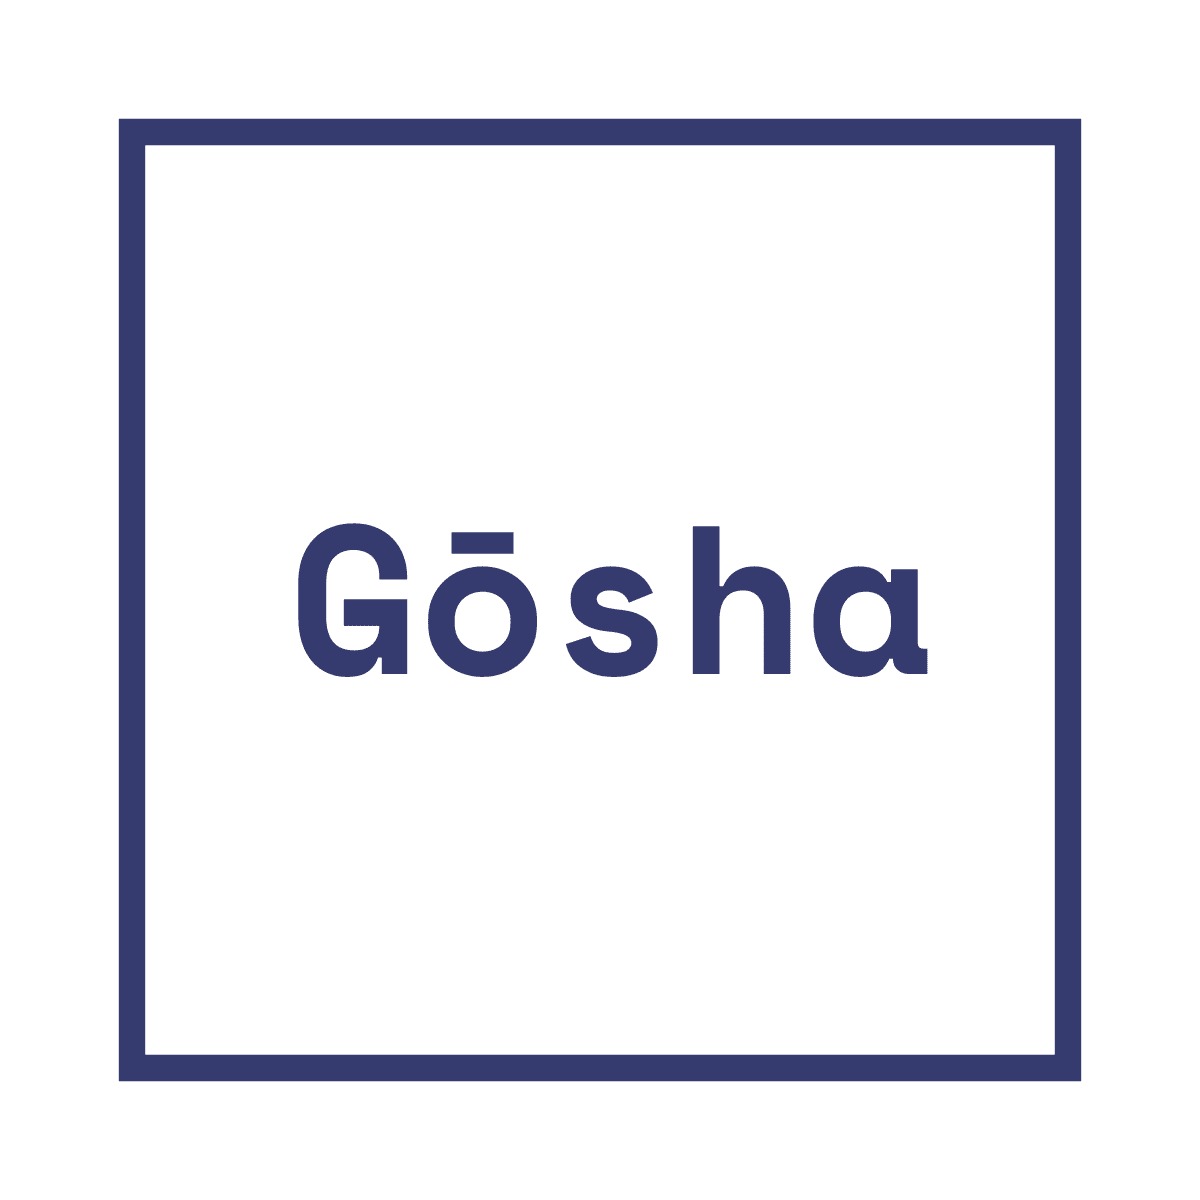
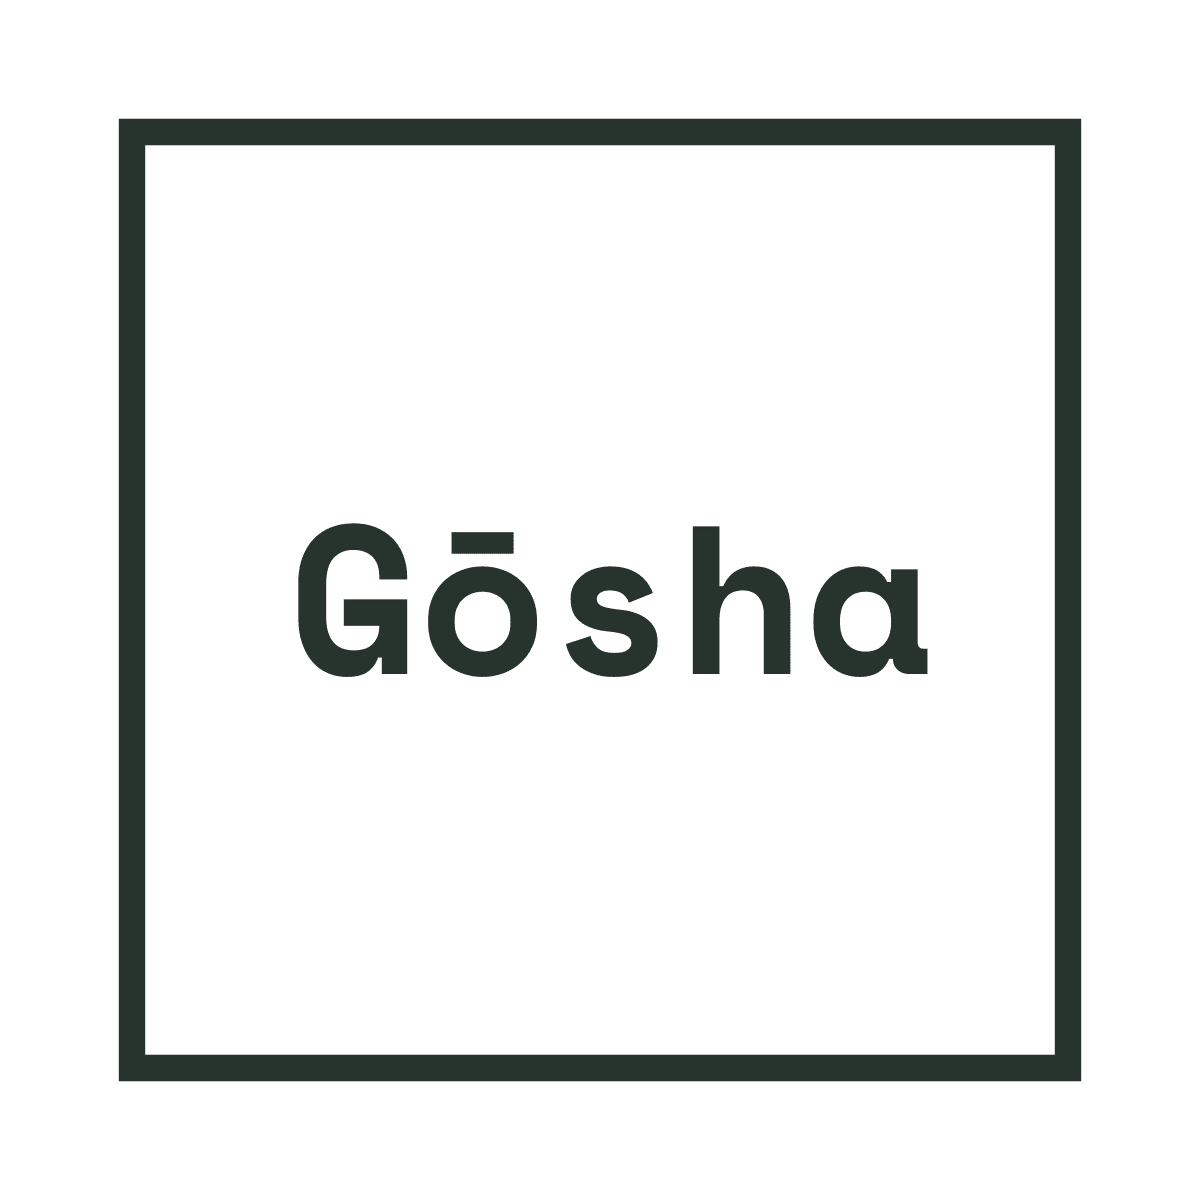
updating sign in and register components

Changed region(s): [[0.0925, 0.0925, 0.925, 0.925], [0.2467, 0.4317, 0.7708, 0.5858]]

diff --git a/src/components/SignInDrawer/Register.jsx b/src/components/SignInDrawer/Register.jsx
@@ -1,38 +1,100 @@
 import React, { Component } from "react";
+import Input from "./../Input/Input";
+import Joi from "@hapi/joi";
 import "../assets/css/fonts.css";
 import "./Register.css";
 
 class Register extends Component {
-  handleSubmit = (e) => {
-    e.preventDefault();
+  state = {
+    account: { name: "", email: "", password: "", confirmedPassword: "" },
+    errors: {},
   };
 
-  handleInput = () => {};
+  schema = Joi.object({
+    name: Joi.string().required().alphanum(),
+    email: Joi.string()
+      .required()
+      .email({ minDomainSegments: 2, tlds: { allow: false } })
+      .label("E-mail"),
+    password: Joi.string()
+      .required()
+      .pattern(new RegExp("^[a-zA-Z0-9]{6,16}$"))
+      .label("Password"),
+    confirmedPassword: Joi.string().required(),
+  });
+
+  validate = () => {
+    const options = { abortEarly: false };
+    const { error } = this.schema.validate(this.state.account, options);
+
+    if (!error) return null;
+
+    const errors = {};
+    for (let item of error.details) {
+      errors[item.path[0]] = "This field is required";
+    }
+    return errors;
+  };
+
+  handleSubmit = (e) => {
+    e.preventDefault();
+
+    const errors = this.validate();
+    this.setState({ errors: errors || {} });
+    if (errors) return;
+  };
+
+  // validateProperty = ({ name, value }) => {
+  //   const obj = { [name]: value };
+  //   const schema = Joi.object({ [name]: this.schema[name] });
+  //   const { error } = schema.validate(obj);
+  //   return error ? "This field is required" : null;
+  // };
+
+  handleInput = ({ currentTarget: input }) => {
+    // const errors = { ...this.state.errors };
+    // const errorMessage = this.validateProperty(input);
+    // if (errorMessage) errors[input.name] = errorMessage;
+    // else delete errors[input.name];
+
+    const account = { ...this.state.account };
+    account[input.name] = input.value;
+    this.setState({ account });
+  };
 
   render() {
+    const { account, errors } = this.state;
     return (
       <React.Fragment>
         <h1>Register</h1>
         <form onSubmit={this.handleSubmit} className="register-form">
-          <input
-            className="register-form-input"
-            type="text"
+          <Input
+            name="name"
+            value={account.name}
             placeholder="Name *"
+            onInput={this.handleInput}
+            error={errors.name}
           />
-          <input
-            className="register-form-input"
-            type="text"
+          <Input
+            name="email"
+            value={account.email}
             placeholder="Email *"
+            onInput={this.handleInput}
+            error={errors.email}
           />
-          <input
-            className="register-form-input"
-            type="text"
+          <Input
+            name="password"
+            value={account.password}
             placeholder="Password *"
+            onInput={this.handleInput}
+            error={errors.password}
           />
-          <input
-            className="register-form-input"
-            type="text"
-            placeholder="Confirm password *"
+          <Input
+            name="confirmedPassword"
+            value={account.confirmedPassword}
+            placeholder="Confirm Password *"
+            onInput={this.handleInput}
+            error={errors.confirmedPassword}
           />
           <button className="register-form-button">Enter</button>
         </form>

diff --git a/src/components/SignInDrawer/SignIn.jsx b/src/components/SignInDrawer/SignIn.jsx
@@ -1,41 +1,84 @@
 import React, { Component } from "react";
+import Input from "./../Input/Input";
+import Joi from "@hapi/joi";
 import "../assets/css/fonts.css";
 import "./SignIn.css";
 
 class SignIn extends Component {
-  state = { account: { email: "", password: "" } };
+  state = {
+    account: { email: "", password: "" },
+    errors: {},
+  };
+
+  schema = Joi.object({
+    email: Joi.string()
+      .required()
+      .email({ minDomainSegments: 2, tlds: { allow: false } })
+      .label("E-mail"),
+    password: Joi.string()
+      .required()
+      .pattern(new RegExp("^[a-zA-Z0-9]{6,16}$"))
+      .label("Password"),
+  });
+
+  validate = () => {
+    const options = { abortEarly: false };
+    const { error } = this.schema.validate(this.state.account, options);
+
+    if (!error) return null;
+
+    const errors = {};
+    for (let item of error.details) {
+      errors[item.path[0]] = "This field is required";
+    }
+    return errors;
+  };
 
   handleSubmit = (e) => {
     e.preventDefault();
+
+    const errors = this.validate();
+    this.setState({ errors: errors || {} });
+    if (errors) return;
   };
 
+  // validateProperty = ({ name, value }) => {
+  //   const obj = { [name]: value };
+  //   const schema = Joi.object({ [name]: this.schema[name] });
+  //   const { error } = schema.validate(obj);
+  //   return error ? "This field is required" : null;
+  // };
+
   handleInput = ({ currentTarget: input }) => {
+    // const errors = { ...this.state.errors };
+    // const errorMessage = this.validateProperty(input);
+    // if (errorMessage) errors[input.name] = errorMessage;
+    // else delete errors[input.name];
+
     const account = { ...this.state.account };
     account[input.name] = input.value;
     this.setState({ account });
   };
 
   render() {
-    const { email, password } = this.state.account;
+    const { account, errors } = this.state;
     return (
       <React.Fragment>
         <h1>Sign In</h1>
         <form onSubmit={this.handleSubmit} className="sign-in-form">
-          <input
-            value={email}
+          <Input
+            value={account.email}
             name="email"
-            className="sign-in-form-input"
-            type="text"
             placeholder="E-mail *"
-            onChange={this.handleInput}
+            onInput={this.handleInput}
+            error={errors.email}
           />
-          <input
-            value={password}
+          <Input
+            value={account.password}
             name="password"
-            className="sign-in-form-input"
-            type="text"
             placeholder="Password *"
-            onChange={this.handleInput}
+            onInput={this.handleInput}
+            error={errors.password}
           />
           <button className="sign-in-form-button">Enter</button>
         </form>

diff --git a/src/components/Navbar/Navbar.jsx b/src/components/Navbar/Navbar.jsx
@@ -80,19 +80,16 @@ class Navbar extends Component {
                 className="secondary-nav-icons"
                 onClick={this.props.onSignInIconClick}
               >
-                <i className="fa fa-user-circle-o fa-2x" aria-hidden="true"></i>
+                <i className="fas fa-user-circle fa-lg"></i>
               </li>
               <li>
                 <NavLink to="/wishlist" className="secondary-nav-icons">
-                  <i className="fa fa-heart fa-2x" aria-hidden="true"></i>
+                  <i class="far fa-heart fa-lg"></i>
                 </NavLink>
               </li>
               <li>
                 <NavLink to="shopping-cart" className="secondary-nav-icons">
-                  <i
-                    className="fa fa-shopping-bag fa-2x"
-                    aria-hidden="true"
-                  ></i>
+                  <i className="fas fa-shopping-bag fa-lg"></i>
                 </NavLink>
               </li>
             </ul>

diff --git a/src/components/Input/Input.css b/src/components/Input/Input.css
@@ -1,0 +1,30 @@
+.input-container {
+  display: flex;
+  flex-direction: column;
+  align-items: center;
+}
+
+.input {
+  width: 300px;
+  height: 30px;
+  margin-top: 30px;
+  font-family: "Muli", sans-serif;
+  font-size: 15px;
+  padding-bottom: 5px;
+  border: none;
+  border-bottom: 0.6px solid lightgray;
+}
+
+.input:focus {
+  outline: none;
+}
+
+.validation-error-message {
+  padding-top: 5px;
+  width: 300px;
+  height: 20px;
+  font-size: 13px;
+  border-top: 1px solid red;
+  color: red;
+  text-align: start;
+}

diff --git a/src/components/Input/Input.jsx b/src/components/Input/Input.jsx
@@ -1,0 +1,20 @@
+import React from "react";
+import "./Input.css";
+
+const Input = ({ name, value, placeholder, error, onInput }) => {
+  return (
+    <div className="input-container">
+      <input
+        value={value}
+        name={name}
+        className="input"
+        type="text"
+        placeholder={placeholder}
+        onChange={onInput}
+      />
+      {error && <div className="validation-error-message">{error}</div>}
+    </div>
+  );
+};
+
+export default Input;

diff --git a/src/components/Navbar/Navbar.css b/src/components/Navbar/Navbar.css
@@ -47,15 +47,15 @@
   font-family: "Muli", sans-serif;
   font-weight: 600;
   font-size: 17px;
-  color: #353b6e;
+  color: black;
   cursor: pointer;
   display: flex;
   justify-content: center;
   align-items: center;
 }
 .secondary-nav {
-  width: 160px;
-  margin-right: 100px;
+  width: 100px;
+  margin-right: 200px;
 }
 
 .secondary-nav ul {
@@ -67,7 +67,7 @@
 
 .secondary-nav-icons {
   text-decoration: none;
-  color: #353b6e;
+  color: black;
   cursor: pointer;
 }
 

diff --git a/src/components/SignInDrawer/SignIn.css b/src/components/SignInDrawer/SignIn.css
@@ -4,27 +4,6 @@
   text-align: center;
 }
 
-.sign-in-form-input,
-.sign-in-form-button {
-  display: block;
-  margin: auto auto;
-}
-
-.sign-in-form-input {
-  width: 300px;
-  height: 30px;
-  margin-top: 30px;
-  font-family: "Muli", sans-serif;
-  font-size: 15px;
-  padding-bottom: 5px;
-  border: none;
-  border-bottom: 0.6px solid lightgray;
-}
-
-.sign-in-form-input:focus {
-  outline: none;
-}
-
 .sign-in-form-button {
   margin-top: 60px;
   width: 240px;

diff --git a/src/components/SignInDrawer/SignInDrawer.css b/src/components/SignInDrawer/SignInDrawer.css
@@ -5,6 +5,7 @@
   height: 100vh;
   width: 450px;
   background-color: white;
+  text-align: center;
   z-index: 300;
   box-shadow: -5px 0px 5px -1px rgba(0, 0, 0, 0.15);
   font-family: "Muli", sans-serif;
@@ -80,4 +81,10 @@
 
 .register-span:hover {
   color: darkgray;
+}
+
+@media (max-width: 800px) {
+  .sign-in-container {
+    width: 100vw;
+  }
 }

diff --git a/src/index.js b/src/index.js
@@ -5,6 +5,7 @@ import "./index.css";
 import App from "./App";
 import * as serviceWorker from "./serviceWorker";
 import "font-awesome/css/font-awesome.css";
+import "@fortawesome/fontawesome-free/css/all.css";
 import "react-responsive-carousel/lib/styles/carousel.min.css";
 
 ReactDOM.render(

diff --git a/src/components/Navbar/DrawerToggleButton.css b/src/components/Navbar/DrawerToggleButton.css
@@ -18,7 +18,7 @@
 
 .toggle-button-line {
   width: 35px;
-  height: 3.5px;
+  height: 3px;
   border-radius: 1px;
-  background-color: #353b6e;
+  background-color: black;
 }
